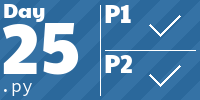
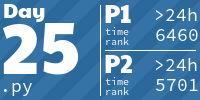
Löse AoC 2017 Day 2
- Implementiere Spreadsheet-Checksum

- Bestätige beide Antworten

diff --git a/2017-py/day02/2017_day02.py b/2017-py/day02/2017_day02.py
@@ -1,0 +1,48 @@
+import time
+from itertools import permutations
+
+from aocfw import AdventOfCodeClient
+
+YEAR = 2017
+DAY = 2
+
+
+def parse_rows(part_data):
+    return [
+        [int(value) for value in line.split()]
+        for line in part_data.splitlines()
+        if line.strip()
+    ]
+
+
+def divisible_result(row):
+    for left, right in permutations(row, 2):
+        if left % right == 0:
+            return left // right
+
+    raise ValueError(f"No divisible pair found in row: {row}")
+
+
+def part1(part_data):
+    return sum(max(row) - min(row) for row in parse_rows(part_data))
+
+
+def part2(part_data):
+    return sum(divisible_result(row) for row in parse_rows(part_data))
+
+
+if __name__ == "__main__":
+    client = AdventOfCodeClient()
+
+    data = client.get_input(YEAR, DAY)
+    answer = part1(data)
+    print("Part 1:", answer)
+    res = client.submit_answer(YEAR, DAY, 1, answer)
+    print(res.message)
+
+    time.sleep(10)
+
+    answer = part2(data)
+    print("Part 2:", answer)
+    res = client.submit_answer(YEAR, DAY, 2, answer)
+    print(res.message)

diff --git a/README.md b/README.md
@@ -2,7 +2,7 @@
 
 <!-- AOC TILES BEGIN -->
 <h1 align="center">
-  Advent of Code - 174/550 ⭐
+  Advent of Code - 182/550 ⭐
 </h1>
 <h1 align="center">
   2024 - 50 ⭐ - 
@@ -128,13 +128,16 @@
   <img src=".aoc_tiles/tiles/2019/14.png" width="161px">
 </a>
 <h1 align="center">
-  2017 - 2 ⭐ - Python
+  2017 - 4 ⭐ - Python
 </h1>
 <a href="2017-py/day01/2017_day01.py">
   <img src=".aoc_tiles/tiles/2017/01.png" width="161px">
 </a>
+<a href="2017-py/day02/2017_day02.py">
+  <img src=".aoc_tiles/tiles/2017/02.png" width="161px">
+</a>
 <h1 align="center">
-  2016 - 44 ⭐ - Python
+  2016 - 50 ⭐ - Python
 </h1>
 <a href="2016-py/day01/2016_day01.py">
   <img src=".aoc_tiles/tiles/2016/01.png" width="161px">
@@ -201,6 +204,15 @@
 </a>
 <a href="2016-py/day22/2016_day22.py">
   <img src=".aoc_tiles/tiles/2016/22.png" width="161px">
+</a>
+<a href="2016-py/day23/2016_day23.py">
+  <img src=".aoc_tiles/tiles/2016/23.png" width="161px">
+</a>
+<a href="2016-py/day24/2016_day24.py">
+  <img src=".aoc_tiles/tiles/2016/24.png" width="161px">
+</a>
+<a href="2016-py/day25/2016_day25.py">
+  <img src=".aoc_tiles/tiles/2016/25.png" width="161px">
 </a>
 <h1 align="center">
   2015 - 50 ⭐ - Python